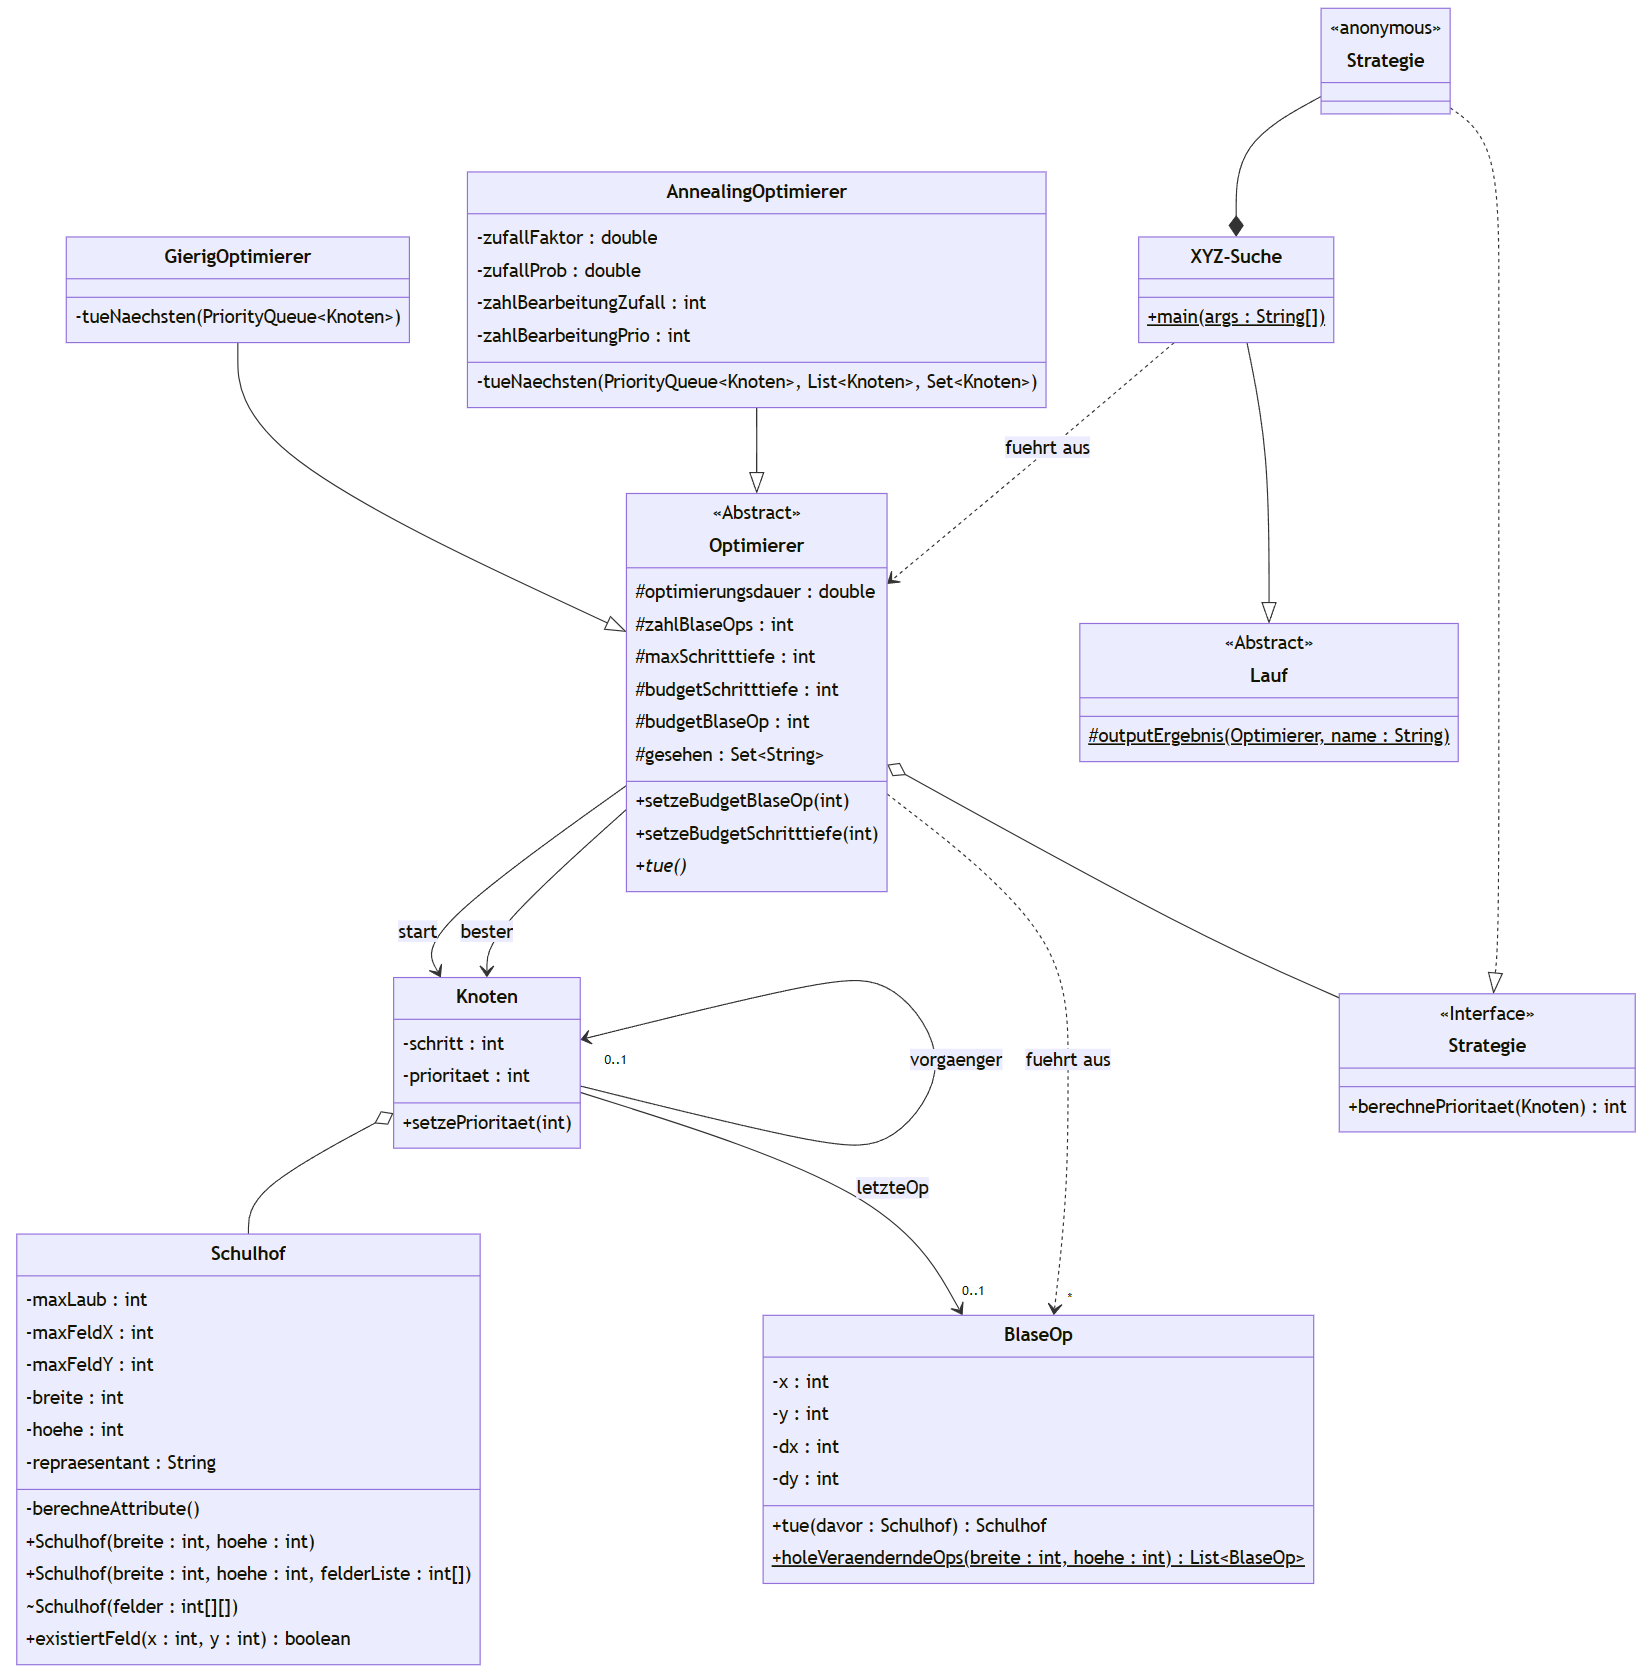
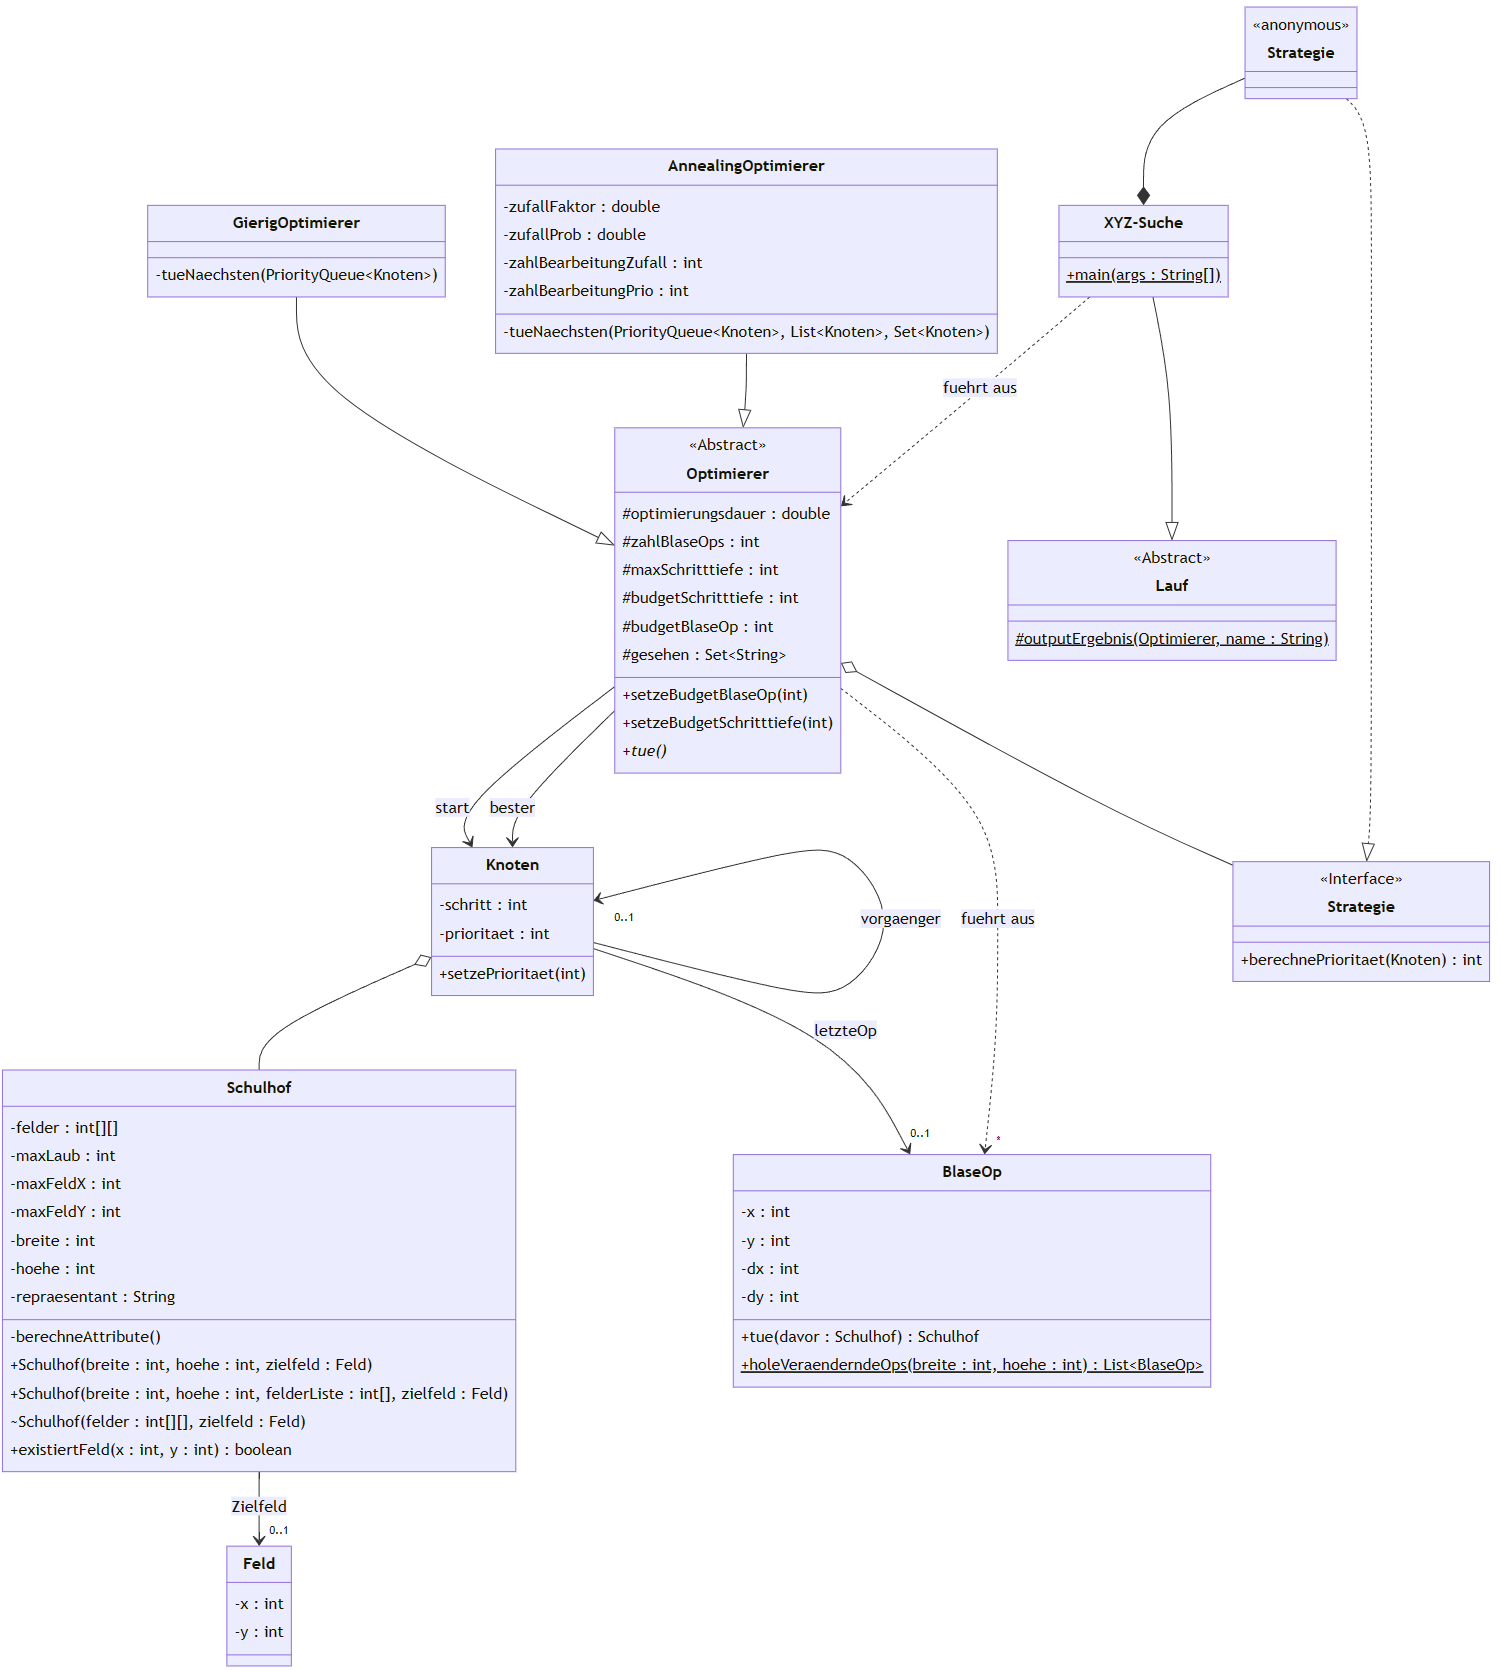
uml diagram update && changed lauf

diff --git a/aufgabe1/src/lauf/Tiefensuche.java b/aufgabe1/src/lauf/Tiefensuche.java
@@ -6,7 +6,7 @@ import modell.Feld;
 import optimierung.*;
 
 public class Tiefensuche extends Lauf {
-	private static int BUDGET_SCHRITTTIEFE = 5;
+	private static int BUDGET_SCHRITTTIEFE = 2;
 
 	public static void main(String[] args) throws IOException {
 		Feld zielfeld = new Feld(2, 1);
@@ -21,6 +21,6 @@ public class Tiefensuche extends Lauf {
 
 		o.tue();
 
-		Lauf.outputErgebnis(o, Tiefensuche.class.getSimpleName() + "_" + BUDGET_SCHRITTTIEFE, zielfeld);
+		Lauf.outputErgebnis(o, Tiefensuche.class.getSimpleName() + "_" + BUDGET_SCHRITTTIEFE);
 	}
 }

diff --git a/aufgabe1/src/lauf/Lauf.java b/aufgabe1/src/lauf/Lauf.java
@@ -7,7 +7,8 @@ import modell.Feld;
 import optimierung.*;
 
 public abstract class Lauf {
-    protected static void outputErgebnis(Optimierer o, String name, Feld zielfeld) throws IOException {
+    protected static void outputErgebnis(Optimierer o, String name) throws IOException {
+		Feld zielfeld = o.holeBesterKnoten().holeSchulhof().holeZielfeld();
 		String zielfeldName = (zielfeld != null) ? (zielfeld.holeX() + "-" + zielfeld.holeY() + "/") : "beliebig";
         FileWriter fw = new FileWriter("aufgabe1/logs/" + zielfeldName + name + ".log");
 

diff --git a/aufgabe1/src/lauf/GierigsucheMitBlasekosten.java b/aufgabe1/src/lauf/GierigsucheMitBlasekosten.java
@@ -21,6 +21,6 @@ public class GierigsucheMitBlasekosten extends Lauf {
 
 		o.tue();
 
-		Lauf.outputErgebnis(o, GierigsucheMitBlasekosten.class.getSimpleName() + "_" + BLASEKOSTEN, zielfeld);
+		Lauf.outputErgebnis(o, GierigsucheMitBlasekosten.class.getSimpleName() + "_" + BLASEKOSTEN);
 	}
 }

diff --git a/aufgabe1/src/lauf/GierigsucheHeuristikZentrum.java b/aufgabe1/src/lauf/GierigsucheHeuristikZentrum.java
@@ -31,6 +31,6 @@ public class GierigsucheHeuristikZentrum extends Lauf {
 
 		o.tue();
 
-		Lauf.outputErgebnis(o, GierigsucheHeuristikZentrum.class.getSimpleName(), zielfeld);
+		Lauf.outputErgebnis(o, GierigsucheHeuristikZentrum.class.getSimpleName());
 	}
 }

diff --git a/aufgabe1/src/lauf/AnnealingHeuristikZentrum.java b/aufgabe1/src/lauf/AnnealingHeuristikZentrum.java
@@ -31,6 +31,6 @@ public class AnnealingHeuristikZentrum extends Lauf {
 
 		o.tue();
 
-		Lauf.outputErgebnis(o, AnnealingHeuristikZentrum.class.getSimpleName(), zielfeld);
+		Lauf.outputErgebnis(o, AnnealingHeuristikZentrum.class.getSimpleName());
 	}
 }

diff --git a/aufgabe1/src/lauf/Annealingsuche.java b/aufgabe1/src/lauf/Annealingsuche.java
@@ -19,6 +19,6 @@ public class Annealingsuche extends Lauf {
 
 		o.tue();
 
-		Lauf.outputErgebnis(o, Annealingsuche.class.getSimpleName(), zielfeld);
+		Lauf.outputErgebnis(o, Annealingsuche.class.getSimpleName());
 	}
 }

diff --git a/aufgabe1/src/lauf/Gierigsuche.java b/aufgabe1/src/lauf/Gierigsuche.java
@@ -19,6 +19,6 @@ public class Gierigsuche extends Lauf {
 
 		o.tue();
 
-		Lauf.outputErgebnis(o, Gierigsuche.class.getSimpleName(), zielfeld);
+		Lauf.outputErgebnis(o, Gierigsuche.class.getSimpleName());
 	}
 }

diff --git a/aufgabe1/README.md b/aufgabe1/README.md
@@ -19,6 +19,7 @@ Beispiele zu den Konzepten des Ansatzes sind [hier](examples.md).
 Um die Abbildung zu vereinfachen, ist im UML Klassendiagramm Folgendes weggelassen:
 * Hole-Methoden: durch die Attributauflistung nicht zwingend erforderlich
 * Override von Standard-Methoden (equals, hashCode, toString): im Modell standardmaessig durchgefuehrt aber von der Optimierung nicht benoetigt
+* Die Unterklassen von `Lauf` sind nur schematisch angedeutet durch `XYZ-Suche`. Die einzelnen Laeufe wie `Tiefensuche`, `Gierigsuche` und `Annealingsuche` verfahren nach demselben Schema wie `XYZ-Suche`.
 
 ``` mermaid
 classDiagram
@@ -27,12 +28,12 @@ classDiagram
 		-y : int
 	}
 	class Schulhof {
+		-felder : int[][]
 		-maxLaub : int
 		-maxFeldX : int
 		-maxFeldY : int
 		-breite : int
 		-hoehe : int
-		-zielfeld : Feld
 		-repraesentant : String
 		-berechneAttribute()
 		+Schulhof(breite : int, hoehe : int, zielfeld : Feld)
@@ -48,6 +49,7 @@ classDiagram
 		+tue(davor : Schulhof) Schulhof
 		+holeVeraenderndeOps(breite : int, hoehe : int) List~BlaseOp~$
 	}
+	Schulhof --> "0..1" Feld : Zielfeld
 	class Knoten {
 		-schritt : int
 		-prioritaet : int
@@ -79,7 +81,6 @@ classDiagram
 		<<Interface>>
 		+berechnePrioritaet(Knoten) int
 	}
-	Feld <.. Schulhof
 	Knoten o-- Schulhof
 	Knoten --> "0..1" BlaseOp : letzteOp
 	Knoten "0..1" <-- Knoten : vorgaenger
@@ -91,7 +92,7 @@ classDiagram
 	Optimierer o-- Strategie
 	class LaufClass["Lauf"] {
 		<<Abstract>>
-		#outputErgebnis(Optimierer, name : String, zielfeld : Feld)$
+		#outputErgebnis(Optimierer, name : String)$
 	}
 	class XyzSuche["XYZ-Suche"] {
 		+main(args : String[])$
